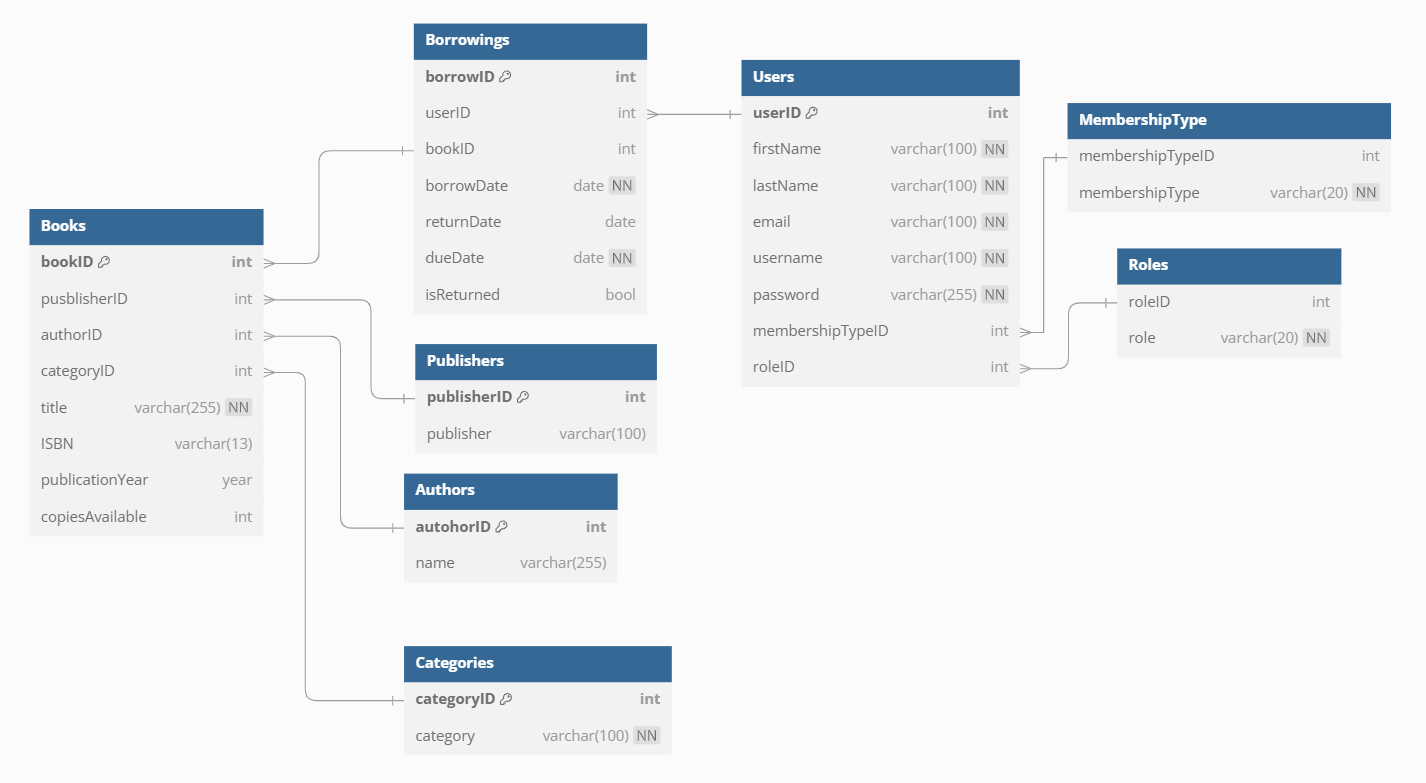
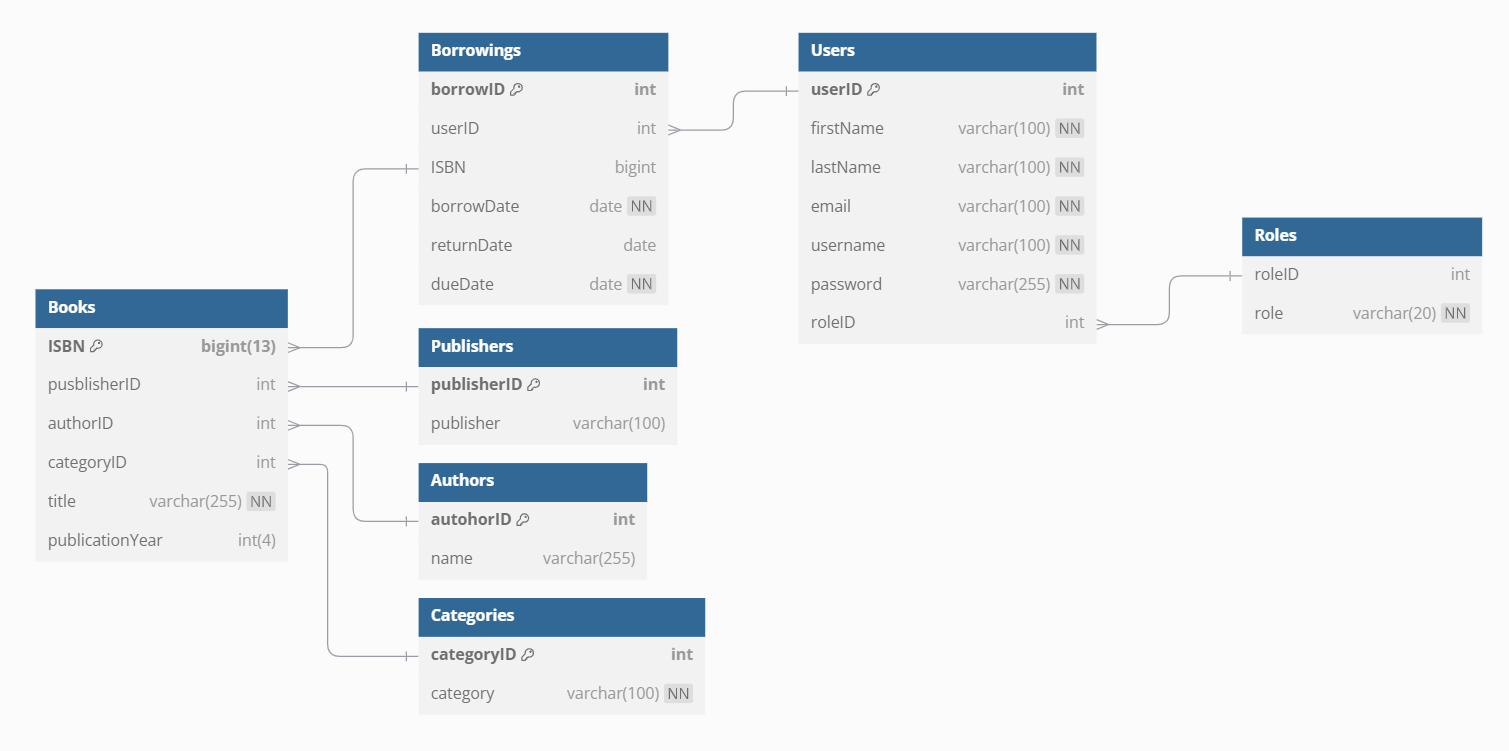
2024-12-16 11:10:51

diff --git a/Project Plan.md b/Project Plan.md
@@ -55,10 +55,10 @@ Adatokat tárol a felhasználókról.
 
 Követi, hogy melyik könyvek vannak kikölcsönözve, és hogy kik kölcsönzik őket.
 
-| BorrowID | UserID | BookID | BorrowDate | ReturnDate | DueDate    | IsReturned |
-| -------- | ------ | ------ | ---------- | ---------- | ---------- | ---------- |
-| 1        | 1      | 1      | 12/07/2023 | null       | 12/07/2024 | false      |
-| 2        | 2      | 2      | 03/22/2024 | 06/15/2024 | 03/22/2025 | true       |
+| BorrowID | UserID | BookID | BorrowDate | ReturnDate | DueDate    |
+| -------- | ------ | ------ | ---------- | ---------- | ---------- |
+| 1        | 1      | 1      | 12/07/2023 | null       | 12/07/2024 |
+| 2        | 2      | 2      | 03/22/2024 | 06/15/2024 | 03/22/2025 |
 
 ## Roles - Rangok
 
